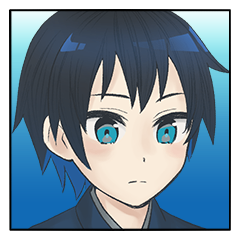
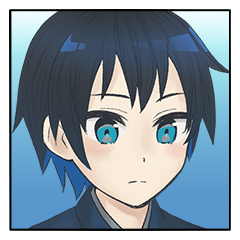
up

Changed region(s): [[0.6417, 0.1458, 0.9625, 0.9625], [0.0292, 0.1458, 0.3792, 0.9625]]

diff --git a/shinobi_bc/kasin/day2.html b/shinobi_bc/kasin/day2.html
@@ -728,7 +728,7 @@
             </div>
         </div>
         <div class="main">
-            <div class="ic"><img src="img/usersXhqo0TufgPQTTcIOmMRpf7l9LSf1files7ac1ce583356e49be23f86.png" alt="">
+            <div class="ic"><img src="img/usersXhqo0TufgPQTTcIOmMRpf7l9LSf1files46c6aeb779faad95fdd089.png" alt="">
             </div>
             <div class="p">
                 <b class="pc1">透夜</b><br>
@@ -750,7 +750,7 @@
             </div>
         </div>
         <div class="main">
-            <div class="ic"><img src="img/usersXhqo0TufgPQTTcIOmMRpf7l9LSf1files7ac1ce583356e49be23f86.png" alt="">
+            <div class="ic"><img src="img/usersXhqo0TufgPQTTcIOmMRpf7l9LSf1files46c6aeb779faad95fdd089.png" alt="">
             </div>
             <div class="p">
                 <b class="pc1">透夜</b><br>
@@ -758,7 +758,7 @@
             </div>
         </div>
         <div class="main">
-            <div class="ic"><img src="img/usersXhqo0TufgPQTTcIOmMRpf7l9LSf1files7ac1ce583356e49be23f86.png" alt="">
+            <div class="ic"><img src="img/usersXhqo0TufgPQTTcIOmMRpf7l9LSf1files46c6aeb779faad95fdd089.png" alt="">
             </div>
             <div class="p">
                 <b class="pc1">透夜</b><br>
@@ -773,7 +773,7 @@
             </div>
         </div>
         <div class="main">
-            <div class="ic"><img src="img/usersXhqo0TufgPQTTcIOmMRpf7l9LSf1files7ac1ce583356e49be23f86.png" alt="">
+            <div class="ic"><img src="img/usersXhqo0TufgPQTTcIOmMRpf7l9LSf1files46c6aeb779faad95fdd089.png" alt="">
             </div>
             <div class="p">
                 <b class="pc1">透夜</b><br>
@@ -788,7 +788,7 @@
             </div>
         </div>
         <div class="main">
-            <div class="ic"><img src="img/usersXhqo0TufgPQTTcIOmMRpf7l9LSf1files7ac1ce583356e49be23f86.png" alt="">
+            <div class="ic"><img src="img/usersXhqo0TufgPQTTcIOmMRpf7l9LSf1files46c6aeb779faad95fdd089.png" alt="">
             </div>
             <div class="p">
                 <b class="pc1">透夜</b><br>
@@ -796,7 +796,7 @@
             </div>
         </div>
         <div class="main">
-            <div class="ic"><img src="img/usersXhqo0TufgPQTTcIOmMRpf7l9LSf1files7ac1ce583356e49be23f86.png" alt="">
+            <div class="ic"><img src="img/usersXhqo0TufgPQTTcIOmMRpf7l9LSf1files46c6aeb779faad95fdd089.png" alt="">
             </div>
             <div class="p">
                 <b class="pc1">透夜</b><br>
@@ -811,7 +811,7 @@
             </div>
         </div>
         <div class="main">
-            <div class="ic"><img src="img/usersXhqo0TufgPQTTcIOmMRpf7l9LSf1files7ac1ce583356e49be23f86.png" alt="">
+            <div class="ic"><img src="img/usersXhqo0TufgPQTTcIOmMRpf7l9LSf1files46c6aeb779faad95fdd089.png" alt="">
             </div>
             <div class="p">
                 <b class="pc1">透夜</b><br>
@@ -819,7 +819,7 @@
             </div>
         </div>
         <div class="main">
-            <div class="ic"><img src="img/usersXhqo0TufgPQTTcIOmMRpf7l9LSf1files7ac1ce583356e49be23f86.png" alt="">
+            <div class="ic"><img src="img/usersXhqo0TufgPQTTcIOmMRpf7l9LSf1files46c6aeb779faad95fdd089.png" alt="">
             </div>
             <div class="p">
                 <b class="pc1">透夜</b><br>
@@ -827,7 +827,7 @@
             </div>
         </div>
         <div class="main">
-            <div class="ic"><img src="img/usersXhqo0TufgPQTTcIOmMRpf7l9LSf1files7ac1ce583356e49be23f86.png" alt="">
+            <div class="ic"><img src="img/usersXhqo0TufgPQTTcIOmMRpf7l9LSf1files46c6aeb779faad95fdd089.png" alt="">
             </div>
             <div class="p">
                 <b class="pc1">透夜</b><br>
@@ -865,7 +865,7 @@
             </div>
         </div>
         <div class="main">
-            <div class="ic"><img src="img/usersXhqo0TufgPQTTcIOmMRpf7l9LSf1files7ac1ce583356e49be23f86.png" alt="">
+            <div class="ic"><img src="img/usersXhqo0TufgPQTTcIOmMRpf7l9LSf1files46c6aeb779faad95fdd089.png" alt="">
             </div>
             <div class="p">
                 <b class="pc1">透夜</b><br>
@@ -873,7 +873,7 @@
             </div>
         </div>
         <div class="main">
-            <div class="ic"><img src="img/usersXhqo0TufgPQTTcIOmMRpf7l9LSf1files7ac1ce583356e49be23f86.png" alt="">
+            <div class="ic"><img src="img/usersXhqo0TufgPQTTcIOmMRpf7l9LSf1files46c6aeb779faad95fdd089.png" alt="">
             </div>
             <div class="p">
                 <b class="pc1">透夜</b><br>
@@ -897,7 +897,7 @@
             </div>
         </div>
         <div class="main">
-            <div class="ic"><img src="img/usersXhqo0TufgPQTTcIOmMRpf7l9LSf1files7ac1ce583356e49be23f86.png" alt="">
+            <div class="ic"><img src="img/usersXhqo0TufgPQTTcIOmMRpf7l9LSf1files46c6aeb779faad95fdd089.png" alt="">
             </div>
             <div class="p">
                 <b class="pc1">透夜</b><br>
@@ -905,7 +905,7 @@
             </div>
         </div>
         <div class="main">
-            <div class="ic"><img src="img/usersXhqo0TufgPQTTcIOmMRpf7l9LSf1files7ac1ce583356e49be23f86.png" alt="">
+            <div class="ic"><img src="img/usersXhqo0TufgPQTTcIOmMRpf7l9LSf1files46c6aeb779faad95fdd089.png" alt="">
             </div>
             <div class="p">
                 <b class="pc1">透夜</b><br>
